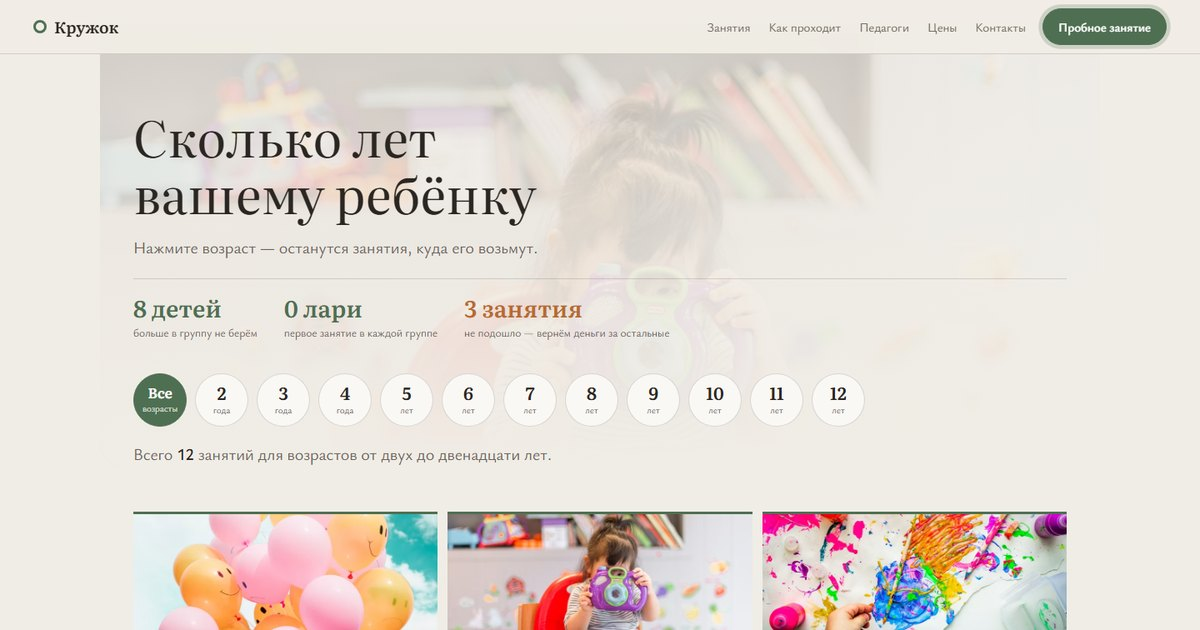
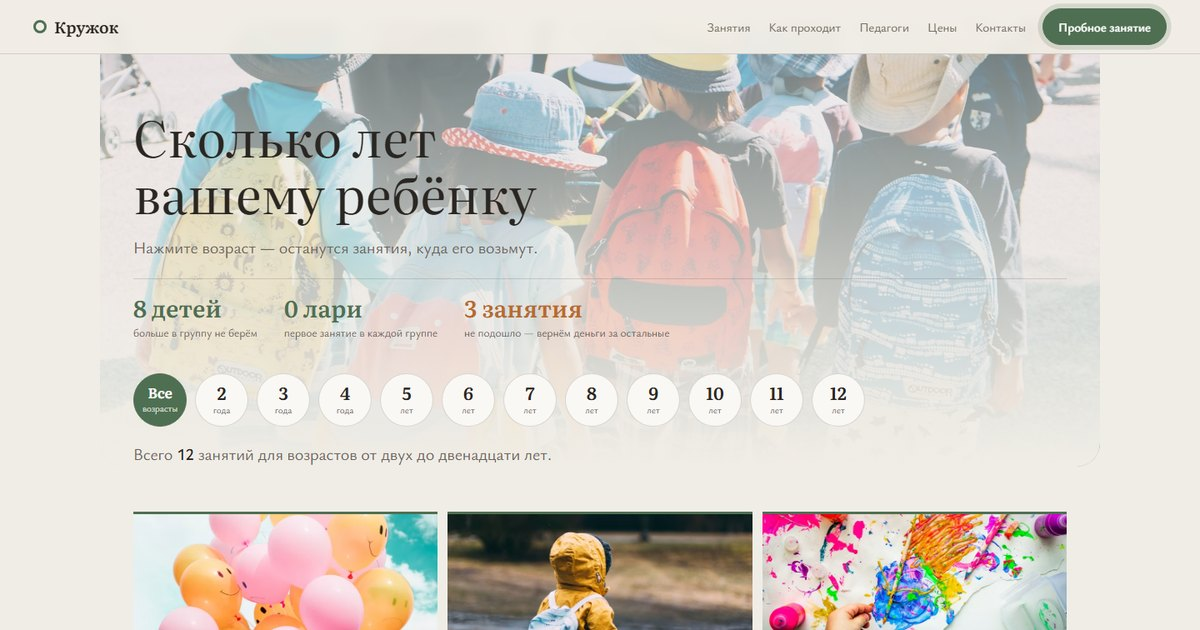
Правки от 22.09

Changed region(s): [[0.0617, 0.0603, 0.925, 0.6032], [0.37, 0.8143, 0.6475, 1.0]]

diff --git a/index.html b/index.html
@@ -100,14 +100,18 @@ h3{font-family:var(--disp);font-weight:600;font-size:19px;line-height:1.3}
 
 /* ============ 1. герой ============ */
 /* Правка 21.09: кадр детской комнаты на фоне первого экрана. Он оживляет
-   страницу, но уходит в овсяный фон, чтобы текст читался. Детских лиц
-   в кадре нет — это отдельное правило (SITE-FACTORY §6). */
+   страницу, но уходит в овсяный фон, чтобы текст читался.
+   Правка 22.09: прежний кадр был детским лицом крупным планом — после подъёма
+   яркости это стало видно. Заменён на детей со спины: правило «детских лиц нет»
+   (SITE-FACTORY §7.5) держим. */
 .hero{position:relative;isolation:isolate;max-width:1200px;margin:0 auto;
   padding:clamp(32px,4.5vw,64px) var(--gut) 0}
 .hero__bg{position:absolute;inset:-40px 0 0;z-index:-1;overflow:hidden;border-radius:0 0 28px 28px}
-.hero__bg img{width:100%;height:100%;object-fit:cover;object-position:50% 30%;opacity:.5;filter:saturate(.85)}
+/* Правка 22.09: кадр был блёклый и еле заметный — поднята непрозрачность и цвет,
+   пелена сверху ослаблена. Ниже по кадру пелена остаётся плотной: там тёмный текст. */
+.hero__bg img{width:100%;height:100%;object-fit:cover;object-position:50% 30%;opacity:.82;filter:saturate(1.02)}
 .hero__bg::after{content:"";position:absolute;inset:0;
-  background:linear-gradient(180deg,rgba(240,237,230,.5) 0%,rgba(240,237,230,.8) 55%,var(--oat) 100%)}
+  background:linear-gradient(180deg,rgba(240,237,230,.3) 0%,rgba(240,237,230,.74) 55%,var(--oat) 100%)}
 h1{font-family:var(--disp);font-weight:400;font-size:clamp(30px,4.4vw,60px);line-height:1.12;max-width:16ch}
 .hero p{margin-top:18px;font-size:clamp(17px,1.4vw,20px);line-height:1.5;max-width:58ch;color:var(--soft)}
 /* Три цифры рядом: самое важное читается за секунду */
@@ -207,11 +211,16 @@ h1{font-family:var(--disp);font-weight:400;font-size:clamp(30px,4.4vw,60px);line
   .place > div{display:flex;flex-direction:column}
   .place ul{flex:1;grid-auto-rows:1fr}
 }
-@media (min-width:900px){.place{grid-template-columns:minmax(0,1fr) minmax(0,1fr);gap:40px;align-items:start}}
+/* Правка 22.09: коллаж стоял по верху и был мельче списка — колонки съезжали.
+   Теперь обе колонки одной высоты, а плитки коллажа делят её поровну. */
+@media (min-width:900px){
+  .place{grid-template-columns:minmax(0,1fr) minmax(0,1fr);gap:40px;align-items:stretch}
+  .place .collage{height:100%;grid-auto-rows:1fr;align-content:stretch}
+}
 /* Строки с круглыми маркерами — перекличка с кружками возрастов наверху.
    Карточек здесь нарочно нет: у «Суппорта» чертёж, у «Гонга» табло цифр. */
 /* Правка 21.09: описание места — компактная таблица, а не строки во всю ширину. */
-.place ul{display:grid;gap:0;margin-top:22px;background:var(--paper);border:1px solid var(--line);
+.place ul{display:grid;gap:0;background:var(--paper);border:1px solid var(--line);
   border-radius:16px;overflow:hidden;align-content:stretch}
 .place li{position:relative;display:flex;align-items:center;padding:14px 18px 14px 48px;
   font-size:15.5px;line-height:1.4;
@@ -225,23 +234,45 @@ h1{font-family:var(--disp);font-weight:400;font-size:clamp(30px,4.4vw,60px);line
 /* Правка 21.09: вместо двух крупных кадров — коллаж из шести. */
 .collage{display:grid;grid-template-columns:repeat(2,minmax(0,1fr));gap:10px;align-content:stretch}
 @media (min-width:560px){.collage{grid-template-columns:repeat(3,minmax(0,1fr))}}
-.collage img{width:100%;height:100%;min-height:clamp(96px,11vw,132px);object-fit:cover;border-radius:12px;
+.collage img{width:100%;height:100%;min-height:clamp(120px,13.5vw,172px);object-fit:cover;border-radius:12px;
   background:var(--line);filter:brightness(1.05) saturate(.95);transition:transform .4s ease}
 .collage img:hover{transform:scale(1.03)}
 figcaption{margin-top:10px;color:var(--soft);font-size:13px;line-height:1.5}
 
 /* ============ цены ============ */
-.pr{max-width:820px;margin-top:22px;background:var(--paper);border:1px solid var(--line);
+/* Правка 22.09: прайс читался как второстепенный — плашка во всю ширину секции,
+   строки крупнее, первая (бесплатное пробное) выделена: это главный довод.
+   Между названием и ценой — точечная линия: на широкой строке иначе провал. */
+.pr{max-width:none;margin-top:22px;background:var(--paper);border:1px solid var(--line);
   border-radius:16px;box-shadow:0 8px 22px -14px rgba(42,38,34,.32);overflow:hidden}
 /* Наводишь на строку — соседние гаснут: помогает не потерять нужную глазами */
 .pr:hover li{opacity:.45}
 .pr li:hover{opacity:1;background:rgba(79,111,82,.07)}
 @media (hover:none){.pr:hover li{opacity:1}}
-.pr li{display:grid;grid-template-columns:minmax(0,1fr) auto;gap:8px 16px;padding:15px 20px;
+.pr li{display:grid;grid-template-columns:minmax(0,auto) minmax(24px,1fr) auto;gap:8px 16px;
+  padding:17px clamp(20px,2.4vw,30px);
   transition:opacity .3s ease,background .3s ease;
   border-bottom:1px solid var(--line);align-items:baseline}
-.pr span:last-child{font-family:var(--disp);font-weight:600;font-size:17px;color:var(--moss-d);white-space:nowrap}
+.pr span:first-child{grid-column:1;font-size:17px}
+/* Линия ложится на базовую строку текста: у соседей разный кегль, по центру она висит */
+.pr li::before{content:"";grid-column:2;align-self:baseline;height:0;
+  border-bottom:1px dotted var(--line);margin:0 2px}
+.pr span:last-child{grid-column:3;font-family:var(--disp);font-weight:600;font-size:18px;
+  color:var(--moss-d);white-space:nowrap}
 .pr li:last-child{border-bottom:0}
+/* Главное в прайсе — что первое занятие бесплатное. Остальное читают после. */
+.pr li.is-key{background:rgba(79,111,82,.09)}
+.pr li.is-key span:first-child{font-weight:600}
+.pr li.is-key span:last-child{font-size:21px}
+/* На телефоне в строку не влезает: длинная цена сжимала название до нуля и текст
+   налезал сам на себя. Складываем в два этажа — название сверху, цена под ним. */
+@media (max-width:620px){
+  .pr li{grid-template-columns:minmax(0,1fr);gap:3px}
+  .pr li::before{display:none}
+  .pr span:first-child{grid-column:1;font-size:16px;color:var(--soft)}
+  .pr span:last-child{grid-column:1;white-space:normal;font-size:17px}
+  .pr li.is-key span:last-child{font-size:19px}
+}
 
 /* ============ форма ============ */
 .book{display:grid;grid-template-columns:1fr;gap:26px;margin-top:22px}
@@ -296,7 +327,7 @@ figcaption{margin-top:10px;color:var(--soft);font-size:13px;line-height:1.5}
   <!-- ============ 1. герой и фильтр ============ -->
   <section class="hero" aria-labelledby="h1">
     <div class="hero__bg" aria-hidden="true">
-      <img src="https://images.unsplash.com/photo-1516627145497-ae6968895b74?auto=format&fit=crop&w=2000&q=72"
+      <img src="https://images.unsplash.com/photo-1594608661623-aa0bd3a69d98?auto=format&fit=crop&w=2000&q=72"
         alt="" width="2000" height="1333" fetchpriority="high" decoding="async">
     </div>
     <h1 id="h1">Сколько лет вашему ребёнку</h1>
@@ -325,7 +356,7 @@ figcaption{margin-top:10px;color:var(--soft);font-size:13px;line-height:1.5}
           <div class="g__b"><span class="g__w">пн, ср 10:00</span><span class="g__p">180 <i>лари в месяц</i></span></div>
         </li>
         <li class="g" data-min="3" data-max="4" data-n="Подготовка к саду">
-          <span class="g__ph"><img src="https://images.unsplash.com/photo-1516627145497-ae6968895b74?auto=format&fit=crop&w=800&q=74" alt="Игровая комната с игрушками" width="800" height="534" loading="lazy" decoding="async"></span>
+          <span class="g__ph"><img src="https://images.unsplash.com/photo-1503919545889-aef636e10ad4?auto=format&fit=crop&w=800&q=74" alt="Ребёнок с рюкзаком идёт по дорожке" width="800" height="534" loading="lazy" decoding="async"></span>
           <div class="g__top"><span class="g__age">3–4 года</span><span class="g__len">60 минут</span></div>
           <h3>Подготовка к саду</h3>
           <p class="g__d">Учимся оставаться без родителя, одеваться, ждать очереди и просить помощь словами.</p>
@@ -438,10 +469,10 @@ figcaption{margin-top:10px;color:var(--soft);font-size:13px;line-height:1.5}
   <!-- ============ 5. место ============ -->
   <section class="sec reveal" id="mesto" aria-labelledby="h-m">
     <div class="sec__in">
+      <h2 id="h-m">Место</h2>
       <div class="place">
         <div>
-          <h2 id="h-m">Место</h2>
-          <ul style="margin-top:22px">
+          <ul>
             <li>Две комнаты: тихая для малышей, шумная для старших.</li>
             <li>В холле есть где посидеть родителю и куда поставить коляску.</li>
             <li>Обувь и куртки — на своих крючках, у каждого подписанное место.</li>
@@ -452,7 +483,7 @@ figcaption{margin-top:10px;color:var(--soft);font-size:13px;line-height:1.5}
         <figure class="collage">
           <img src="https://images.unsplash.com/photo-1722622102266-de29b50f4d3d?auto=format&fit=crop&w=900&q=74" alt="Стена с деревянными крючками" width="900" height="600" loading="lazy" decoding="async">
           <img src="https://images.unsplash.com/photo-1709709309456-ce2c6daff9af?auto=format&fit=crop&w=900&q=74" alt="Детские стулья в тёплом свете" width="900" height="600" loading="lazy" decoding="async">
-          <img src="https://images.unsplash.com/photo-1516627145497-ae6968895b74?auto=format&fit=crop&w=900&q=74" alt="Игровая комната с игрушками" width="900" height="600" loading="lazy" decoding="async">
+          <img src="https://images.unsplash.com/photo-1545558014-8692077e9b5c?auto=format&fit=crop&w=900&q=74" alt="Игрушки: кубики, паровозик, конструктор" width="900" height="600" loading="lazy" decoding="async">
           <img src="https://images.unsplash.com/photo-1503676260728-1c00da094a0b?auto=format&fit=crop&w=900&q=74" alt="Книги и кубики с буквами" width="900" height="600" loading="lazy" decoding="async">
           <img src="https://images.unsplash.com/photo-1499892477393-f675706cbe6e?auto=format&fit=crop&w=900&q=74" alt="Краски и кисти" width="900" height="600" loading="lazy" decoding="async">
           <img src="https://images.unsplash.com/photo-1587654780291-39c9404d746b?auto=format&fit=crop&w=900&q=74" alt="Детали конструктора" width="900" height="600" loading="lazy" decoding="async">
@@ -466,10 +497,10 @@ figcaption{margin-top:10px;color:var(--soft);font-size:13px;line-height:1.5}
     <div class="sec__in">
       <h2 id="h-t">Цены и скидки</h2>
       <ul class="pr">
-        <li><span>Пробное занятие</span><span>бесплатно, одно в каждой группе</span></li>
+        <li class="is-key"><span>Пробное занятие</span><span>бесплатно, одно в каждой группе</span></li>
         <li><span>Абонемент на восемь занятий</span><span>180–280 лари, в карточке группы</span></li>
         <li><span>Разовое занятие</span><span>40 лари</span></li>
-        <li><span>Второй ребёнок из семьи</span><span>минус 15 процентов</span></li>
+        <li><span>Второй ребёнок из семьи</span><span>−15 %</span></li>
         <li><span>Пропуски по болезни</span><span>переносим, до двух в месяц, без справки</span></li>
       </ul>
     </div>
